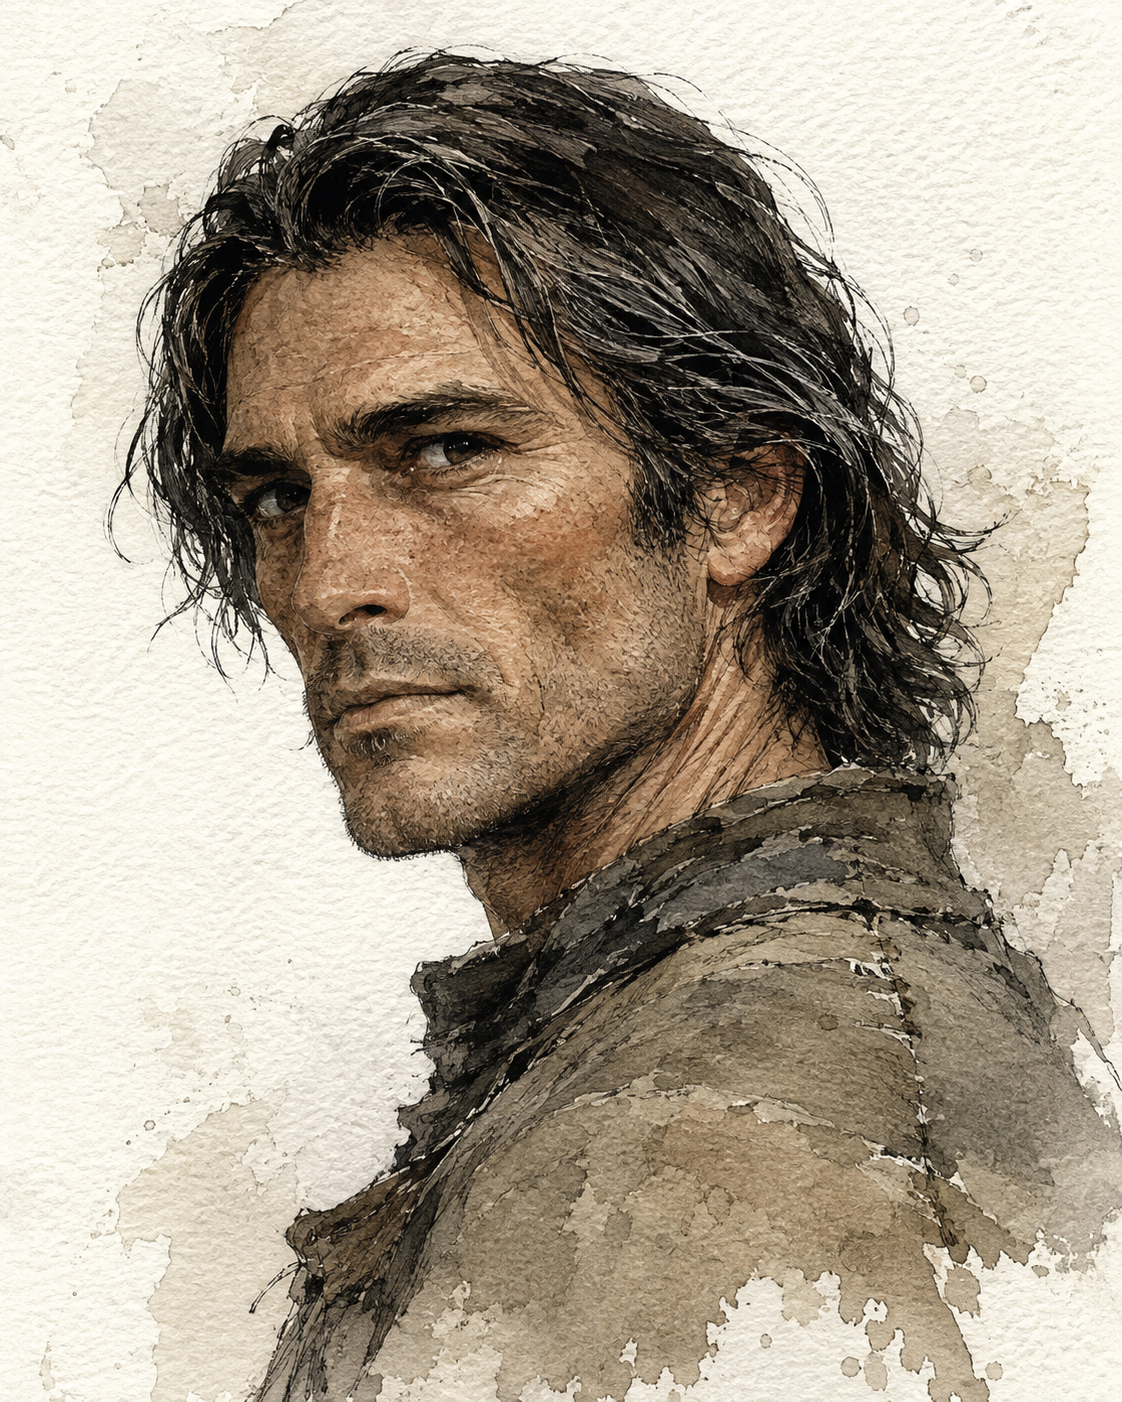
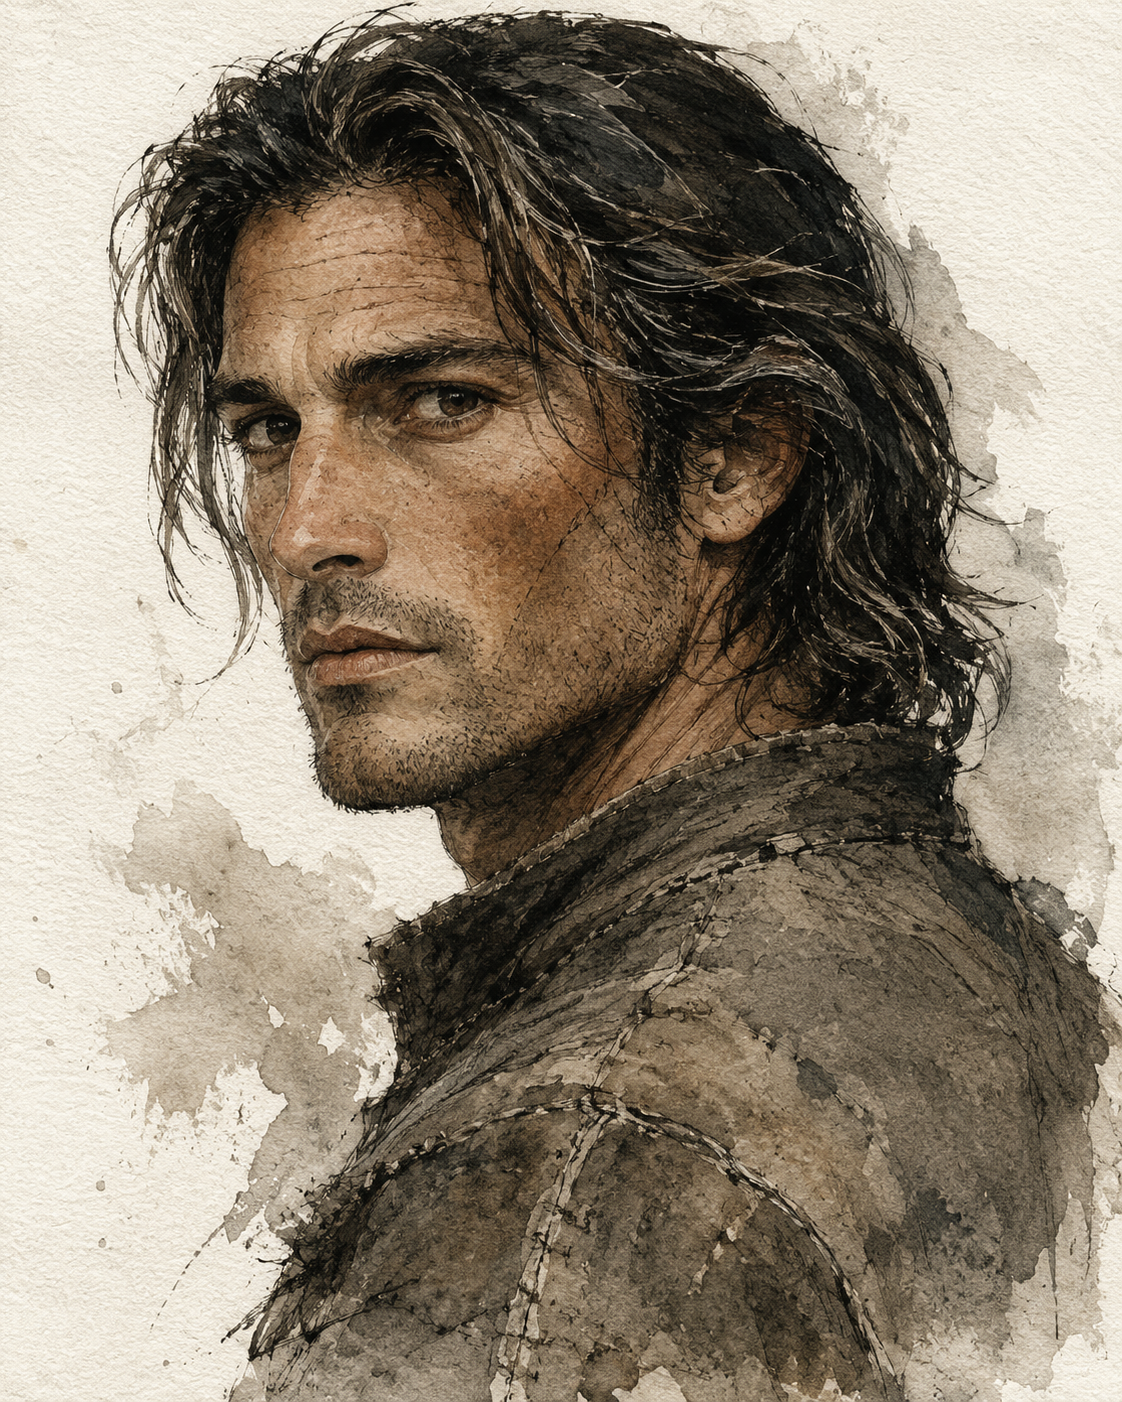
Adopt Vask at thirty-five and diagnose the vanished grey
The age is right at last, and two things went with it. Five
negations aimed at white-in-the-hair suppressed the grey entirely
rather than just its bad form — the same overshoot as "no
freckles", now generalised: ban the shape, count the thing. The
"used tools" weathering came down with the age and needs restating.

Claude-Session: https://claude.ai/code/session_01BwruRWmcby3ktSbm5ywuMX

diff --git a/08-Plates/portrait-prompt-system.md b/08-Plates/portrait-prompt-system.md
@@ -292,7 +292,14 @@ nothing on her that does not work.
 
 ### Vask
 
-**ADOPTED-BUT-FLAGGED:** `images/vask.png` — run 2, which reads about forty-two against a block that now says **thirty-five**. Re-run owed; the image stands until then. **THE PARENTS ARE THE SAME AGE (author ruling, s34)** — a relative fact only; both remain *age unpinned* in `03` and their files stay bare-named. Uses the **Vask AGE block** and **the HAIR line**. No age suffix, per the unpinned-age rule. **The block below is the order that ran: the length line BEFORE the demotion paragraph**, which is the reverse of how it was drafted and is how it worked.
+**ADOPTED-BUT-FLAGGED:** `images/vask.png` — run 3. **The age is right at last** (thirty-five, matching Neris) and the hair length, eyes, expression and cloth are all right. **Two things are not, and both are the cost of the youth instruction winning:**
+
+1. **THERE IS NO VISIBLE GREY AT ALL, AND THE FENCE ATE IT.** Diagnosed, not guessed: the block aimed **five separate negations at light values in the hair** — *no hard-edged white*, *never a streak, never a seam, never a blaze or band or shape of white* — and the tool resolved the pile-up the cheapest way available, by putting **no light in the hair whatever.** Same overshoot as `no freckles`: a negation stack aimed at a feature suppresses the feature, not just its bad form. **The fix, now in the block, is one shape ban plus a positive COUNT:** *roughly one strand in six is grey, scattered evenly right through the mass and thickest at the temples, and the grey must be plainly visible at a glance. It is SCATTERED, never GATHERED — no streak, no seam, no patch.* Untested.
+2. **THE FACE IS NO LONGER *A FACE LIKE USED TOOLS*.** `03`'s phrase survived at forty and did not survive the trip to thirty-five; this reads as a weathered handsome man rather than a used one. **The weather/age split is still correct, but the weather itself came down with the age** and needs restating on its own, the same lesson as the grey.
+
+**Both are block bugs, not sheet bugs** — `03` is unchanged and right. Re-run owed; the image stands until then.
+
+**THE PARENTS ARE THE SAME AGE (author ruling, s34)** — a relative fact only; both remain *age unpinned* in `03` and their files stay bare-named. Uses the **Vask AGE block** and **the HAIR line**. No age suffix, per the unpinned-age rule. **The block below is the order that ran: the length line BEFORE the demotion paragraph**, which is the reverse of how it was drafted and is how it worked.
 
 ```
 SUBJECT — cool pale parchment ground.
@@ -308,11 +315,11 @@ The hair is dark but never a solid mass: rendered as fine ink
 strands and open transparent washes with bare paper left through
 it, soft wash-bled edges, no hard-edged black and no hard-edged
 white anywhere in it. The grey lives in that openness — scattered
-pale strands and bare paper among the dark, thickest at the
-temples, salt through iron. HE IS GREYING EARLY, ahead of his age,
-and it must be visible — a young man's face under a head that has
-already started to go. Never a streak, never a seam, never a blaze
-or band or shape of white anywhere in the hair.
+pale strands among the dark. HE IS GREYING EARLY, ahead of his
+age: roughly one strand in six is grey, scattered evenly right
+through the mass and thickest at the temples, and the grey must be
+plainly visible at a glance. It is SCATTERED, never GATHERED — no
+streak, no seam, no patch.
 Weathered hard — wind, sun and salt worked deep into the skin, the
 whole face used. The weathering is on the surface and the face
 under it is not old.
@@ -455,6 +462,7 @@ Use an **anchor** only when continuity within a specific image matters — multi
 - ~~**Ears run hot.**~~ **SUPERSEDED s34 — the whole clause is cut.** `Most colour in the cheeks, nose and ears` was taken literally and the ears came out pink, which was a nuisance; the real fault was the *cheeks*. High cheek colour competes with the eye for the one saturated point the picture is allowed — fatal to a warm eye, expensive for a dark one. Cut from the fixed block. Ears still warm slightly without it, and that is fine.
 - **Edit passes cost texture.** Two maximum. Granulation softens and the palette warms with each one. If a third is needed, regenerate with the change written into the SUBJECT block instead.
 - **Traits propagate silently.** Freckles once ended up on all three characters because the line got copied between prompts. Same risk with expression — identical affect across a cast flattens them. Decide per character.
+- **NEGATION STACKS OVERSHOOT — THE GENERAL FORM (s34, two independent cases).** Point several negations at one feature and the tool removes the feature rather than its bad form. `no freckles` did not suppress freckles; **five bans on white-in-the-hair suppressed Vask's grey entirely**, which is the opposite of what they were for. **The reliable shape is ONE ban on the bad form plus a POSITIVE quantity of the good one** — *one strand in six, scattered evenly, plainly visible at a glance; scattered, never gathered.* Ban the shape, count the thing.
 - **`no freckles` DOES NOT SUPPRESS FRECKLES — AND IT DOES NOT MATTER (author ruling, s34).** Elarine's prompt said `clear and unmarked, no freckles` and she came back freckled across the nose and cheek. **This is not trait contamination, it is the medium:** the fixed block asks for `pigment granulation`, the tool renders granulation on skin as speckling, and negating a trait cannot beat an instruction to granulate. **The ruling is to stop fighting it.** Granulation freckles are TEXTURE, not a mark — so **freckles do not distinguish anybody in this system**, and the `no freckles` lines in the blocks are advisory rather than load-bearing. Kael's and Aeliana's freckles are now sheet canon and stay in their blocks; they simply stop being a thing an image separates people by. *(Corrected s35: this line read* their sheet canon and their prose detail *and neither was true — freckles were in these two SUBJECT blocks and nowhere else in the doc system or the manuscript, so a block's invention had been cited back as the sheet's, which is the one thing this file's own binding rule forbids. Resolved in the sheets' favour at the author's word: `03/kael` and `03/aeliana` now carry them, unspent on any page.)* *(The lever exists if a future image ever truly needs bare skin — attack the rendering, not the trait: `skin rendered as a single flat unbroken wash — no speckling, no stippling, no granulation anywhere on the face`. Untested.)*
 
 ---
